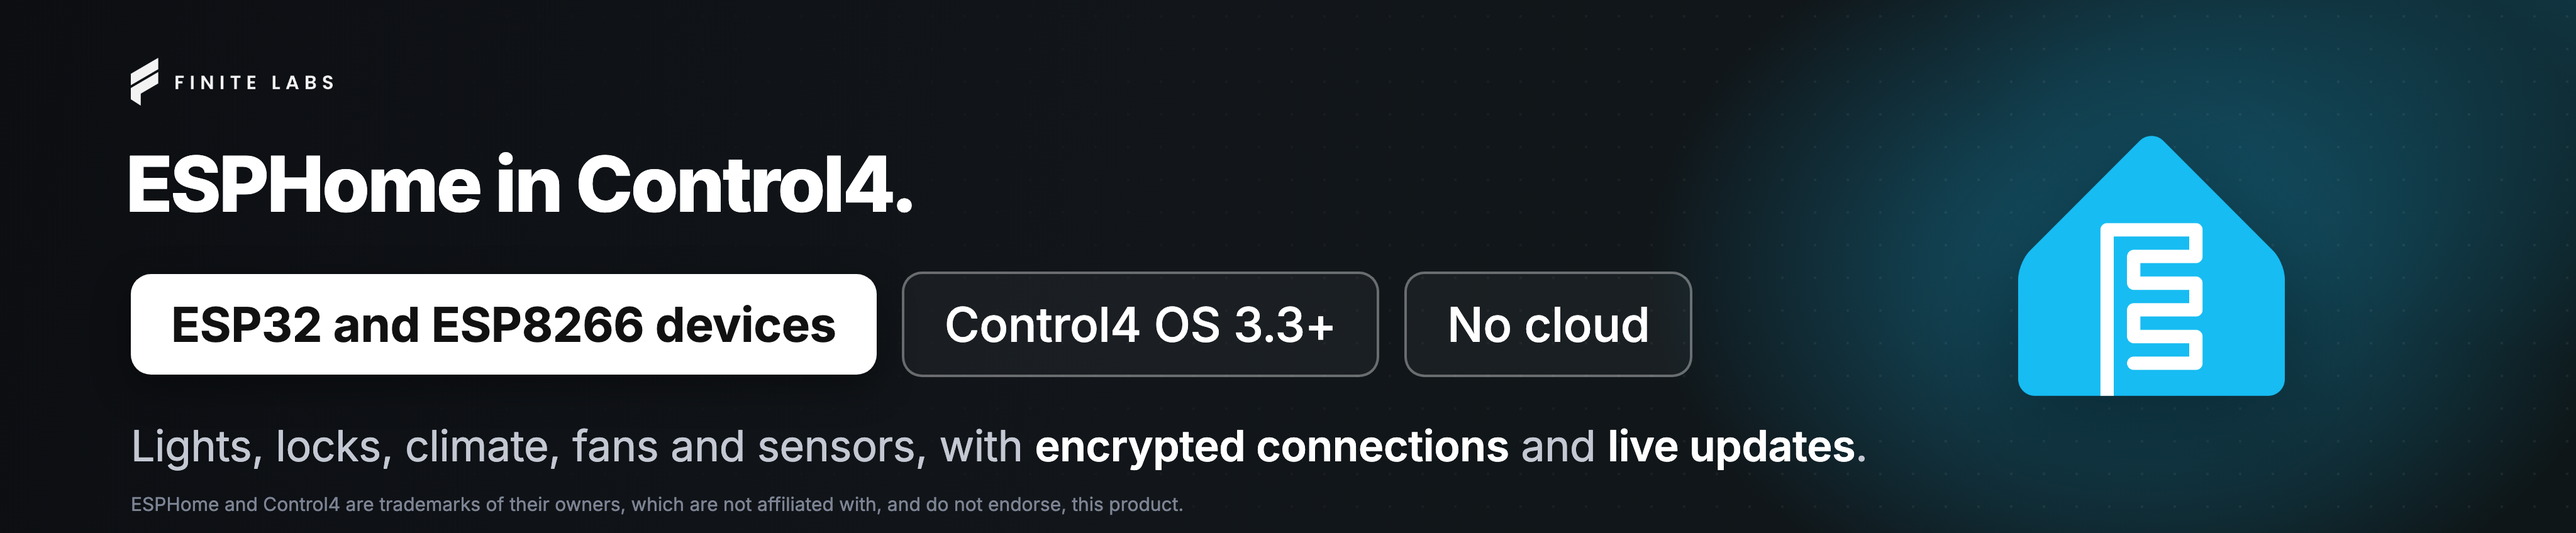
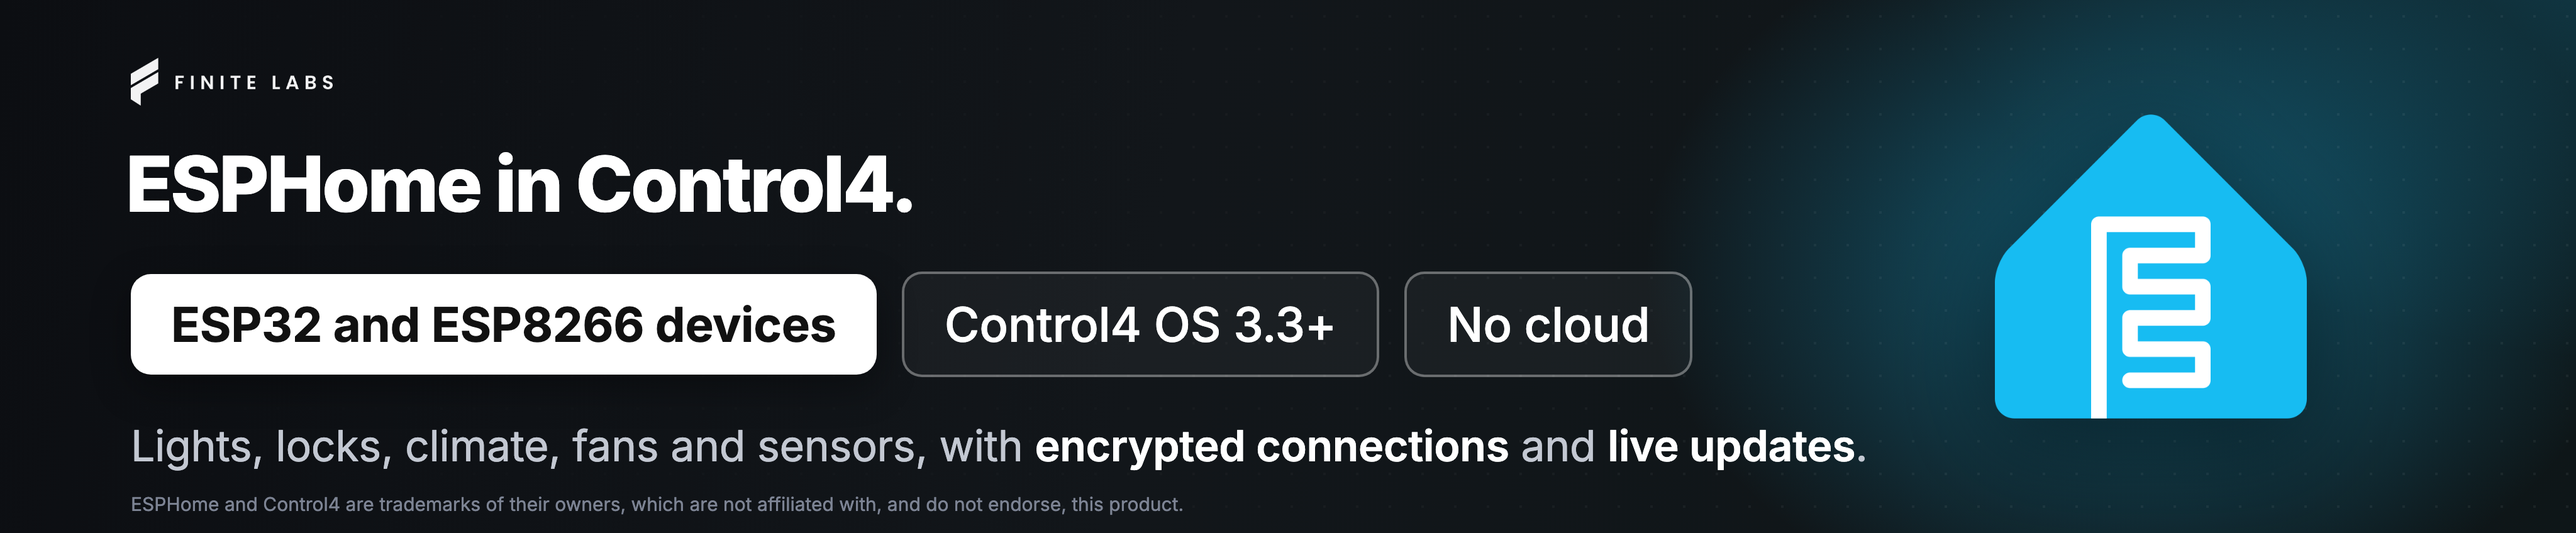
chore: the spotlight and launch-post marks are sized up to match across the drivers

Changed region(s): [[0.75, 0.2146, 0.9062, 0.7972]]

diff --git a/resources/drivercentral/banners/spotlight-4096x848.html b/resources/drivercentral/banners/spotlight-4096x848.html
@@ -20,7 +20,7 @@
   .chip.line { color: #fff; border: 2px solid rgba(255,255,255,0.35); background: rgba(255,255,255,0.04); font-weight: 500; }
   .sub { position: absolute; left: 104px; top: 334px; color: #c3c8d2; font-size: 34px; font-weight: 400; letter-spacing: -0.005em; white-space: nowrap; }
   .sub em { font-style: normal; color: #fff; font-weight: 600; }
-  .mark { position: absolute; left: 1604px; top: 108px; width: 213px; height: 207px; object-fit: contain; filter: drop-shadow(0 18px 40px rgba(0,0,0,0.45)); }
+  .mark { position: absolute; left: 1586px; top: 91px; width: 248px; height: 242px; object-fit: contain; filter: drop-shadow(0 18px 40px rgba(0,0,0,0.45)); }
   .note { position: absolute; left: 104px; bottom: 14px; color: #7d8494; font-size: 15px; letter-spacing: 0; white-space: nowrap; }
 </style></head>
 <body>

diff --git a/resources/drivercentral/banners/launch-post-2400x1200.html b/resources/drivercentral/banners/launch-post-2400x1200.html
@@ -21,7 +21,7 @@
   .chip.line { color: #fff; border: 1.5px solid rgba(255,255,255,0.35); background: rgba(255,255,255,0.04); font-weight: 500; }
   .sub { margin: 32px 0 0 2px; color: #c3c8d2; font-size: 24px; line-height: 1.4; font-weight: 400; letter-spacing: -0.005em; }
   .sub em { font-style: normal; color: #fff; font-weight: 600; }
-  .mark { position: absolute; left: 849px; top: 217px; width: 170px; height: 166px; object-fit: contain; filter: drop-shadow(0 14px 32px rgba(0,0,0,0.45)); }
+  .mark { position: absolute; left: 793px; top: 167px; width: 273px; height: 267px; object-fit: contain; filter: drop-shadow(0 14px 32px rgba(0,0,0,0.45)); }
   .note { position: absolute; left: 74px; right: 74px; bottom: 20px; color: #7d8494; font-size: 13px; line-height: 1.35; }
 </style></head>
 <body>
